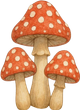
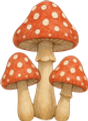
Fix transition music, bee tint persistence, lumberjack shrink, and gameplay polish
- MusicManager: play stinger through dedicated gain node bypassing masterGain
  so transition music is audible during hulk/revert fade-out
- BeeCharacter: clear tint and fxG at start of setHulk/revertNormal to prevent
  red overlay persisting during transitions
- BeeCatcherCharacter: restore display size after stopFrameAnim to prevent sprite shrink
- BeeScrollerScene: freeze world during bee transitions, bee-shrinks-into-net on catch,
  correct trap fling origin using worldToScreen, stinger transitions for hulk/revert
- BeeScrollerLogic: hulk repel catcher instead of game-over, remove vine,
  thorns passthrough, catcher speed 150
- Mushroom sprites resized 10% larger in both themes

diff --git a/src/games/beescroller/BeeScrollerScene.ts b/src/games/beescroller/BeeScrollerScene.ts
@@ -21,18 +21,17 @@ const GROUND_Y      = 628   // top of ground strip
 const WORLD_LENGTH  = 4400  // level total px
 const OBJ_HEIGHTS: Record<WorldObjectType, number> = {
   // Ground-anchored (bottom of sprite at GROUND_Y=628)
-  'obstacle-flower':   628,  // 90×200 — tall flower
-  'obstacle-mushroom': 628,  // 80×110 — mushroom cluster
+  'obstacle-flower':   653,  // 90×200 — tall flower, overlaps ground
+  'obstacle-mushroom': 648,  // 88×121 — mushroom cluster, overlaps ground
   // Tree-body (center at top-half of tree; snake height=140, bottom=248+70=318)
   'obstacle-snake':    318,  // 160×140 — snake in top half of tree
-  'obstacle-thorns':   628,  // 130×60 — low thorny bush
-  'obstacle-lantern':  628,  // 45×160 — floor lamp, lumberjack height
-  'honey':             628,  // 70×100 — honey bucket on ground
-  'trap-rock':         628,  // 90×55  — rock on ground
+  'obstacle-thorns':   700,  // 130×60 — low thorny bush, overlaps ground
+  'obstacle-lantern':  653,  // 45×160 — floor lamp, overlaps ground
+  'honey':             673,  // 70×100 — honey bucket, sits deeper in ground
+  'trap-rock':         648,  // 90×55  — rock on ground
   'trap-board':        628,  // 130×85 — board on ground
   // Tree-hanging (bottom of sprite at given Y, hangs down from tree canopy)
   'obstacle-web':      420,  // 100×100 — spider web from tree
-  'trap-vine':         490,  // 40×130  — vine from tree
   'hive':              490,  // 90×160  — beehive from tree
 }
 
@@ -169,7 +168,7 @@ export class BeeScrollerScene extends Phaser.Scene {
     this.treeSprites = []
     for (const wx of TREE_WORLD_XS) {
       const img = this.add.image(this.worldToScreen(wx), GROUND_Y + 40, this.tk('bs-tree'))
-        .setOrigin(0.5, 1).setAlpha(0.95).setDepth(2).setDisplaySize(320, 560)
+        .setOrigin(0.5, 1).setAlpha(0.95).setDepth(2).setDisplaySize(353, 560)
       this.treeSprites.push({ img, worldX: wx })
     }
 
@@ -223,7 +222,8 @@ export class BeeScrollerScene extends Phaser.Scene {
         .setOrigin(0.5, 1).setDepth(3)
 
       // Explicit display sizes / orientations
-      if (obj.type === 'obstacle-snake') img.setDisplaySize(160, 140)
+      if (obj.type === 'obstacle-snake')  img.setDisplaySize(160, 140)
+      if (obj.type === 'obstacle-lantern') img.setDisplaySize(50, 160)
       if (obj.type === 'trap-board') img.setAngle(90)  // stand upright like a fence plank
 
       // Glow only for traps and honey (interactive) — obstacles have no glow/hints
@@ -274,7 +274,6 @@ export class BeeScrollerScene extends Phaser.Scene {
       'honey':             'bs-honey',
       'trap-rock':         'bs-rock',
       'trap-board':        'bs-board',
-      'trap-vine':         this.tk('bs-vine'),
       'hive':              'bs-hive',
     }
     return map[type]
@@ -285,7 +284,7 @@ export class BeeScrollerScene extends Phaser.Scene {
     const heights: Partial<Record<WorldObjectType, number>> = {
       'obstacle-flower': 100, 'obstacle-web': 50, 'obstacle-snake': 70,
       'obstacle-mushroom': 55, 'obstacle-thorns': 30, 'obstacle-lantern': 80,
-      'honey': 50, 'trap-rock': 28, 'trap-board': 43, 'trap-vine': 65,
+      'honey': 50, 'trap-rock': 28, 'trap-board': 43,
     }
     return heights[type] ?? 80
   }
@@ -428,7 +427,8 @@ export class BeeScrollerScene extends Phaser.Scene {
       if (pt) { pt.stop(); this.primedTraps.delete(ws.obj.id) }
       ws.image.setVisible(false).clearTint().setAlpha(1)
 
-      this.flingTrap(current, ws.image.x)
+      // Compute start from live state worldX so position is accurate regardless of scroll
+      this.flingTrap(current, this.worldToScreen(current.worldX))
     }
   }
 
@@ -524,7 +524,10 @@ export class BeeScrollerScene extends Phaser.Scene {
     // Push beeY into state so logic can use it for Y-collision
     this.state.beeY = this.beeCurrentY
 
-    this.state = updateState(this.state, delta)
+    // Freeze world and catcher during hulk transform/revert transition
+    const transitioning = this.bee.isTransitioning
+    this.state = updateState(this.state, transitioning ? 0 : delta)
+    if (transitioning) this.catcher.setRunSpeed(false)
 
     if (this.state.phase === 'caught') { this.handleCatch(); return }
     if (this.state.phase === 'won')    { this.handleWin();   return }
@@ -695,7 +698,7 @@ export class BeeScrollerScene extends Phaser.Scene {
       this.prevHulk = true
       this.bee.setHulk()
       this.statusText.setText('💪 HULK BEE! Set those traps! You have 10 seconds!')
-      MusicManager.playHulk()
+      MusicManager.playTransitionToHulk()
     }
 
     // Hulk reverting
@@ -704,7 +707,7 @@ export class BeeScrollerScene extends Phaser.Scene {
       this.bee.revertNormal()
       this.statusText.setText('⚠ Hulk mode ended! Race for the hive!')
       this.time.delayedCall(2500, () => this.statusText.setText(''))
-      MusicManager.revertNormal()
+      MusicManager.playTransitionToNormal()
     }
 
     // Countdown beeps when hulk is about to expire
@@ -774,8 +777,20 @@ export class BeeScrollerScene extends Phaser.Scene {
     SoundManager.draw()
     this.cameras.main.shake(500, 0.015)
 
-    // Net closes over bee position
-    this.time.delayedCall(600, () => {
+    // After initial shake, shrink bee into the net (held ~80px right and ~130px above catcher feet)
+    this.time.delayedCall(400, () => {
+      const netX = this.catcher.x + 80
+      const netY = CATCHER_SCREEN_Y - 130
+      this.tweens.add({
+        targets: this.bee,
+        x: netX, y: netY,
+        scaleX: 0, scaleY: 0,
+        duration: 350,
+        ease: 'Cubic.easeIn',
+      })
+    })
+
+    this.time.delayedCall(900, () => {
       this.showEndBanner('🪣 Caught! The bee catcher wins! 😭', Colors.xRed, false)
     })
   }

diff --git a/src/shared/audio/MusicManager.ts b/src/shared/audio/MusicManager.ts
@@ -145,6 +145,72 @@ function fadeTo(volume: number, durationSec = 0.4): void {
   masterGain.gain.linearRampToValueAtTime(volume, audioCtx.currentTime + durationSec)
 }
 
+// ── Transition stingers (one-shot, ~1 second) ─────────────────────────────────
+// Each entry: [freq, startMs, durMs, wave, vol]
+type StingerNote = [number, number, number, OscillatorType, number]
+
+// To-Hulk: rapid ascending sawtooth arpeggio → power chord
+const TO_HULK_STINGER: StingerNote[] = [
+  [N.C4,   0,  80, 'sawtooth', 0.20],
+  [N.E4,  80,  80, 'sawtooth', 0.22],
+  [N.G4, 160,  80, 'sawtooth', 0.24],
+  [N.C5, 240,  80, 'sawtooth', 0.26],
+  [N.E5, 320,  80, 'sawtooth', 0.28],
+  [N.G5, 400,  80, 'sawtooth', 0.30],
+  // Power chord hit
+  [N.C5, 500, 480, 'square',   0.18],
+  [N.G5, 500, 480, 'square',   0.18],
+  // Kick thumps
+  [80,   500,  90, 'sine',     0.40],
+  [80,   650,  90, 'sine',     0.35],
+  [80,   800,  90, 'sine',     0.30],
+]
+
+// To-Normal: descending sine scale → resolving chord
+const TO_NORMAL_STINGER: StingerNote[] = [
+  [N.G5,   0,  90, 'sine', 0.22],
+  [N.E5, 110,  90, 'sine', 0.21],
+  [N.C5, 220,  90, 'sine', 0.20],
+  [N.A4, 330,  90, 'sine', 0.19],
+  [N.F4, 440,  90, 'sine', 0.18],
+  [N.D4, 550,  90, 'sine', 0.17],
+  // Resolved chord
+  [N.C4, 660, 340, 'triangle', 0.16],
+  [N.E4, 660, 340, 'triangle', 0.14],
+  [N.G4, 660, 340, 'triangle', 0.12],
+]
+
+function playStinger(notes: StingerNote[]): void {
+  const ctx = getCtx()
+  const now = ctx.currentTime
+  // Use a dedicated gain node connected directly to destination,
+  // bypassing masterGain so the fade-out doesn't silence the stinger.
+  const stingerGain = ctx.createGain()
+  stingerGain.gain.value = 1
+  stingerGain.connect(ctx.destination)
+  for (const [freq, startMs, durMs, wave, vol] of notes) {
+    if (freq <= 0) continue
+    const osc  = ctx.createOscillator()
+    const gain = ctx.createGain()
+    osc.connect(gain)
+    gain.connect(stingerGain)
+    osc.type = wave
+    osc.frequency.value = freq
+    const t = now + startMs / 1000
+    const attack = 0.015
+    const release = Math.min(0.08, (durMs / 1000) * 0.3)
+    gain.gain.setValueAtTime(0, t)
+    gain.gain.linearRampToValueAtTime(vol, t + attack)
+    gain.gain.setValueAtTime(vol, t + durMs / 1000 - release)
+    gain.gain.linearRampToValueAtTime(0, t + durMs / 1000)
+    osc.start(t)
+    osc.stop(t + durMs / 1000 + 0.01)
+  }
+  // Auto-disconnect stingerGain after all notes finish (last note end + buffer)
+  const totalMs = Math.max(...notes.map(([,s,d]) => s + d))
+  setTimeout(() => stingerGain.disconnect(), totalMs + 200)
+}
+
 // ── Public API ────────────────────────────────────────────────────────────────
 export const MusicManager = {
   playNormal(): void {
@@ -158,7 +224,6 @@ export const MusicManager = {
   playHulk(): void {
     if (mode === 'hulk') return
     getCtx()
-    // Cross-fade: fade out current, restart scheduler in hulk mode
     fadeTo(0, 0.25)
     setTimeout(() => {
       mode = 'hulk'
@@ -175,6 +240,32 @@ export const MusicManager = {
       startScheduler()
       fadeTo(1, 0.4)
     }, 350)
+  },
+
+  /** Fade out current music, play ascending stinger, then start hulk music. */
+  playTransitionToHulk(): void {
+    getCtx()
+    fadeTo(0, 0.08)
+    stopScheduler()
+    playStinger(TO_HULK_STINGER)
+    setTimeout(() => {
+      mode = 'hulk'
+      startScheduler()
+      fadeTo(1, 0.3)
+    }, 950)
+  },
+
+  /** Fade out current music, play descending stinger, then start normal music. */
+  playTransitionToNormal(): void {
+    getCtx()
+    fadeTo(0, 0.08)
+    stopScheduler()
+    playStinger(TO_NORMAL_STINGER)
+    setTimeout(() => {
+      mode = 'normal'
+      startScheduler()
+      fadeTo(1, 0.4)
+    }, 950)
   },
 
   stop(): void {

diff --git a/src/games/beescroller/BeeCharacter.ts b/src/games/beescroller/BeeCharacter.ts
@@ -103,30 +103,54 @@ export class BeeCharacter extends Phaser.GameObjects.Container {
 
   setHulk(): void {
     this._isHulk = true
+    this.beeImg.clearTint()
+    this.fxG.clear()
     this.animState = 'transform-hulk'
-    this.scene.tweens.add({
-      targets: this.innerBody, scaleX: 1.3, scaleY: 1.3,
-      duration: 250, yoyo: true, ease: 'Back.easeOut',
-      onComplete: () => {
-        this.animState = 'hulk'
-        this.beeImg.setTexture('bs-hulk1').setDisplaySize(this.HULK_W, this.HULK_H)
-        this.startFrameAnim(HULK_FRAMES)
-        this.scene.cameras.main.flash(400, 0, 220, 0)
+    this.stopFrameAnim()
+
+    let step = 0
+    this.scene.time.addEvent({
+      delay: 100,
+      repeat: 9,
+      callback: () => {
+        step++
+        const hulk = step % 2 === 1
+        this.beeImg
+          .setTexture(hulk ? 'bs-hulk1' : 'bs-bee1')
+          .setDisplaySize(hulk ? this.HULK_W : this.NORMAL_W, hulk ? this.HULK_H : this.NORMAL_H)
+        if (step === 10) {
+          this.animState = 'hulk'
+          this.beeImg.setTexture('bs-hulk1').setDisplaySize(this.HULK_W, this.HULK_H)
+          this.startFrameAnim(HULK_FRAMES)
+          this.scene.cameras.main.flash(400, 0, 220, 0)
+        }
       },
     })
   }
 
   revertNormal(): void {
     this._isHulk = false
+    this.beeImg.clearTint()
+    this.fxG.clear()
     this.animState = 'revert'
-    this.scene.cameras.main.flash(300, 255, 200, 0)
-    this.scene.tweens.add({
-      targets: this.innerBody, scaleX: 0.8, scaleY: 0.8,
-      duration: 200, yoyo: true, ease: 'Bounce.easeOut',
-      onComplete: () => {
-        this.animState = 'fly'
-        this.beeImg.setTexture('bs-bee1').setDisplaySize(this.NORMAL_W, this.NORMAL_H)
-        this.startFrameAnim(FLY_FRAMES)
+    this.stopFrameAnim()
+
+    let step = 0
+    this.scene.time.addEvent({
+      delay: 100,
+      repeat: 9,
+      callback: () => {
+        step++
+        const bee = step % 2 === 1
+        this.beeImg
+          .setTexture(bee ? 'bs-bee1' : 'bs-hulk1')
+          .setDisplaySize(bee ? this.NORMAL_W : this.HULK_W, bee ? this.NORMAL_H : this.HULK_H)
+        if (step === 10) {
+          this.animState = 'fly'
+          this.beeImg.setTexture('bs-bee1').setDisplaySize(this.NORMAL_W, this.NORMAL_H)
+          this.startFrameAnim(FLY_FRAMES)
+          this.scene.cameras.main.flash(300, 255, 200, 0)
+        }
       },
     })
   }
@@ -177,4 +201,5 @@ export class BeeCharacter extends Phaser.GameObjects.Container {
   }
 
   get isHulk(): boolean { return this._isHulk }
+  get isTransitioning(): boolean { return this.animState === 'transform-hulk' || this.animState === 'revert' }
 }

diff --git a/src/games/beescroller/BeeScrollerLogic.ts b/src/games/beescroller/BeeScrollerLogic.ts
@@ -16,7 +16,7 @@ export const INITIAL_GAP             = 500   // starting gap px — catcher at l
 export type WorldObjectType =
   | 'obstacle-flower' | 'obstacle-web' | 'obstacle-snake'
   | 'obstacle-mushroom' | 'obstacle-thorns' | 'obstacle-lantern'
-  | 'honey' | 'trap-rock' | 'trap-board' | 'trap-vine' | 'hive'
+  | 'honey' | 'trap-rock' | 'trap-board' | 'hive'
 
 export interface WorldObject {
   id: string
@@ -57,7 +57,7 @@ const OBSTACLE_TYPES: WorldObjectType[] = [
   'obstacle-flower', 'obstacle-web', 'obstacle-snake',
   'obstacle-mushroom', 'obstacle-thorns', 'obstacle-lantern',
 ]
-const TRAP_TYPES: WorldObjectType[] = ['trap-rock', 'trap-rock', 'trap-rock', 'trap-board', 'trap-vine']
+const TRAP_TYPES: WorldObjectType[] = ['trap-rock', 'trap-rock', 'trap-rock', 'trap-board', 'trap-board']
 
 // Fixed tree world positions — used by the scene to render trees and to snap
 // vine / branch / beehive / web to the correct tree.
@@ -91,7 +91,7 @@ export const OBSTACLE_R_MAP: Record<string, number> = {
 }
 
 // Purely visual — bee flies through without penalty
-const PASSTHROUGH_OBSTACLES = new Set<WorldObjectType>(['obstacle-lantern'])
+const PASSTHROUGH_OBSTACLES = new Set<WorldObjectType>(['obstacle-lantern', 'obstacle-thorns'])
 
 function seededRand(seed: number): () => number {
   let s = seed
@@ -163,7 +163,7 @@ export function generateWorldObjects(seed = 42): WorldObjectSeed[] {
   objects.push({ id: 'hive', type: 'hive', worldX: Math.max(x + 400, LEVEL_LENGTH) })
 
   // ── Snap tree-attached objects to nearest tree worldX ─────────────────────
-  const TREE_HANGING = new Set(['obstacle-web', 'obstacle-snake', 'trap-vine', 'hive'])
+  const TREE_HANGING = new Set(['obstacle-web', 'obstacle-snake', 'hive'])
   for (const o of objects) {
     if (!TREE_HANGING.has(o.type)) continue
     o.worldX = snapToTree(o.worldX)

diff --git a/src/games/beescroller/BeeCatcherCharacter.ts b/src/games/beescroller/BeeCatcherCharacter.ts
@@ -64,7 +64,7 @@ export class BeeCatcherCharacter extends Phaser.GameObjects.Container {
     this.frameTimer?.remove(false)
     this.frameTimer = undefined
     this.currentFps = 0
-    this.lumberjackImg?.setTexture('bs-lumberjack1')
+    this.lumberjackImg?.setTexture('bs-lumberjack1').setDisplaySize(this.W, this.H)
   }
 
   // ── Run tweens ─────────────────────────────────────────────────────────────
